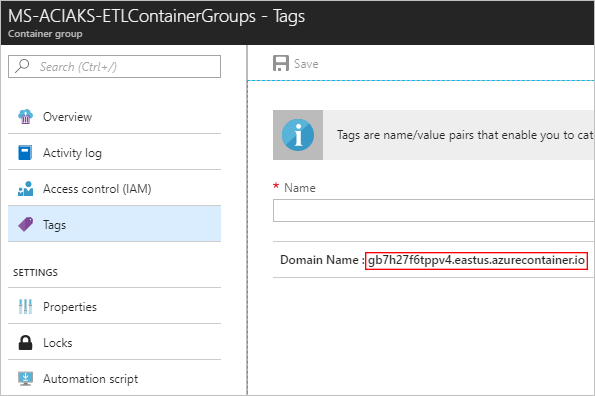
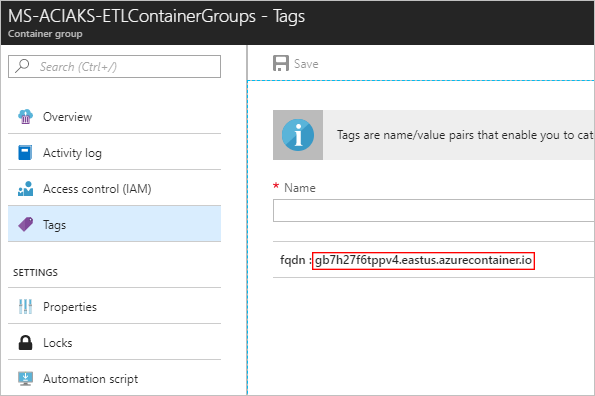
change domain name to fqdn

Changed region(s): [[0.4538, 0.6364, 0.9983, 0.697]]

diff --git a/README.md b/README.md
@@ -180,11 +180,11 @@ In this section, you can view the word cloud in web, or query data directly from
 
    ![](images/deploy-05.png)
 
-3. Click **Tags**, then copy value of the tag **Domain Name**.
+3. Click **Tags**, then copy value of the tag **fqdn**.
 
    ![](images/deploy-08.png)
 
-4. Open the **Domain Name** in the browser to check the word cloud. In this case, the domain name is `gb7h27f6tppv4.eastus.azurecontainer.io`.
+4. Open the **fqdn** in the browser to check the word cloud.
 
    ![](images/deploy-06.png)
 
